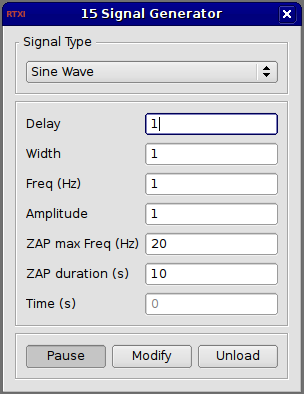
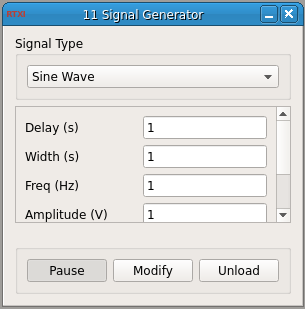
update readme and screenshot

diff --git a/README.md b/README.md
@@ -8,12 +8,12 @@
 <!--start-->
 This module generates the following signals:  
 1. Sine Wave: needs frequency and amplitude  
-2. Monophasic Square Wave: needs delay, pulse width, and pulse amplitude  
-3. Biphasic Square Wave: needs delay, pulse width, and pulse amplitude  
-4. Sawtooth Wave: needs delay, pulse width, and maximum amplitude  
+2. Monophasic Square Wave: needs delay, width, and amplitude  
+3. Biphasic Square Wave: needs delay, width, and amplitude  
+4. Sawtooth Wave: needs delay, width, and maximum amplitude  
 5. ZAP Stimulus: needs starting and ending frequencies, amplitude, and duration of ZAP  
 
-All the signals are continuous except for the ZAP stimulus, which has a specified duration. Only the relevant parameters are used to generate the waveforms. This module is already included in RTXI v1.3+. You may edit this source code (eg. adding additional waveforms). Compiling and installing this module will then overwrite the bundled version of the signal generator.  
+All the signals are continuous except for the ZAP stimulus, which has a specified duration. Only the relevant parameters are used to generate the waveforms. 
 <!--end-->
 
 ####Output Channels
